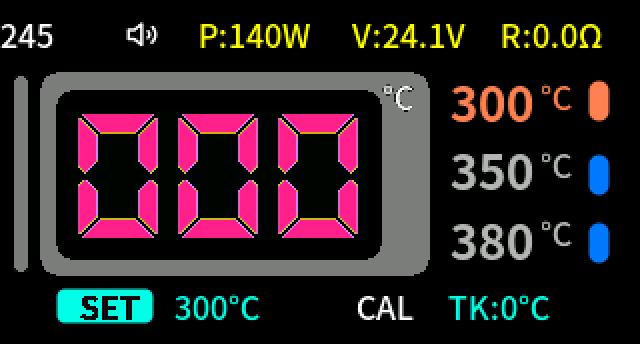
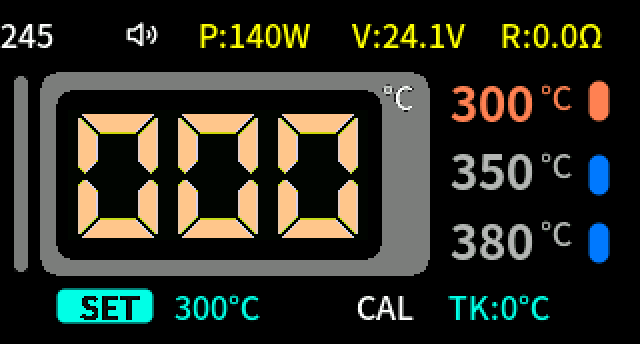
notify_boost: re-arm after heater off/on; boost colour orange
The hook runs at the PID call site, and the PID is not called while the
heater is off, so turning the heater off and on at the same set
temperature kept "reached" set and the cold tip triggered a boost (seen
on the device, up to about 320 deg). A gap of more than 1 s between hook
calls now re-arms, using the last 16 bytes of the free area. The test
scenario covers off/on at 300 deg and fails on the previous build.

BOOST_COLOR is now orange (0xFD20): the firmware draws the set value in
coral (0xFC0A) while it is being edited, which was easy to mistake for
the red boost colour. Screenshots regenerated.

Docs: device results (C245, 60W: 300 deg in about 11 s, peak about
306 deg with pid_fix) and the 60W simulation comparison.

diff --git a/patches/test_notify_boost.py b/patches/test_notify_boost.py
@@ -52,6 +52,10 @@ PLAN = [
     (2100, 4350, 1, 4500),
     (2300, 4500, 2, 4500),                  # sleep: no beep, no boost
     (2400, 4500, 1, 4500),                  # back to work: beep again
+    (2500, 3000, 1, 3000),                  # set 300 and reach it: beep
+    (2600, 1500, 3, 3000),                  # heater off (PID not called), tip cools
+    (2700, 1500, 1, 3000),                  # heater on, same set temp, cold tip: no boost
+    (2800, 3000, 1, 3000),                  # reached again: beep
 ]
 
 
@@ -102,7 +106,7 @@ class Scenario(Emu):
 def main(argv):
     image = argv[1] if len(argv) > 1 else os.path.join(
         ROOT, 'TS1M_Master_APP_V202_EN_notify_boost.bin')
-    s = Scenario(image).run(count=80_000_000)
+    s = Scenario(image).run(count=100_000_000)
     assert s.err is None and not s.halted, (s.err, s.halted)
 
     beeps = [p for p, pat in s.beeps if pat == HOOK_PATTERN]
@@ -120,8 +124,8 @@ def main(argv):
         return [r for r in boosted if a <= r[0] < b]
 
     checks = {
-        'one beep per reached target (heat-up, 440, 450, after sleep)':
-            len(beeps) == 4 and beeps[0] < 300,
+        'one beep per reached target (heat-up, 440, 450, after sleep, after off)':
+            len(beeps) == 6 and beeps[0] < 300 and 2700 <= beeps[5] < 2800,
         'no beep while sleeping': not [p for p in beeps if 2100 <= p < 2300],
         'target restored to the set value after every PID call':
             all(r[3] == r[5] for r in s.rows if r[0] > 1),
@@ -135,6 +139,7 @@ def main(argv):
         'boost capped at 450.0': all(r[2] == 4500 for r in in_(1800, 1900)) and in_(1800, 1900),
         'set 450: target untouched': not in_(1900, 2100),
         'no boost while sleeping': not in_(2100, 2300),
+        'no boost after heater off/on': not in_(2600, 2800),
         'display flag set exactly when the target was raised':
             all(r[6] == (1 if r[2] != r[3] else 0) for r in s.rows if r[0] > 1 and len(r) > 6),
     }

diff --git a/ANALYSIS.md b/ANALYSIS.md
@@ -384,7 +384,7 @@ The earlier modification that hooked it did not work not because of the hook tar
 12. Details of each inspection item and pins used (current/relay sense etc.) in the factory inspection mode (checkMode) (ch. 6)
 13. The entire frame of the USART2 link during normal operation of the tip (H100) (the motion-detection byte[8], type byte[2], etc. are known, ch. 5)
 14. When and what the write to the IDChip (bootloader mode 7 / `IDChip Save Err`) writes to the 1-Wire EEPROM (ch. 14-15)
-15. Temperature overshoot (about 315℃ with a 300℃ setting, C245): the mechanism is reproduced by simulation (ch. 10), but the PID call period, heater power and thermal time constants are not measured, and the fix is not verified on the device
+15. Temperature overshoot (C245, 300℃ setting): with `pid_fix` the device peaks at about 306℃ (300℃ in about 11 s, 60W). The first observation of about 315℃ may have been the `notify_boost` off/on bug. An A/B test with and without `pid_fix` on the device is still needed (ch. 10)
 
 ### Resolved (record)
 
@@ -526,6 +526,14 @@ The recommended fix for 245 is two instructions, built as `python3 patches/build
 | `0x0801559A` | `4ff0000a` (`mov.w sl, #0`) | `aff30080` (`nop.w`) | Keep D active while approaching |
 | `0x080155B4` | `01d9` (`bls`) | `00bf` (`nop`) | No P dead band |
 
+**Device test (2026-10-02, C245, POW shown as 60W, from 36℃, `notify_boost,pid_fix,no_snap`):**
+
+- Heater off then on again: the digits turned red (boost) and the reading rose to about 320℃. This was a `notify_boost` bug (ch. 11), not the PID
+- Without that: 300℃ in about 11 s, peak about 306℃
+
+With 60W, the plants that reproduce "11 s / 306℃" under `pid_fix` (`P60`, lag 0.5–2.0 s) give about 305–306℃ for the original PID too; there `pid_fix` mainly removes the ripple after settling (original 0.1–3.2℃, `pid_fix` about 0.2℃) rather than lowering the peak.
+The about 315℃ first observed was with `notify_boost` installed, so it may have been the same boost bug. An A/B test on the device (`notify_boost,no_snap` with and without `pid_fix`, cold start, no off/on) is still needed.
+
 ### Why the PID looks like this (speculation)
 
 Nothing in the code states the design intent; this is read from its structure. It looks less like an analytically designed PID
@@ -608,9 +616,11 @@ python3 patches/screenshot.py         # draw the heating screen to the virtual p
 | Boost cap | 450.0℃. If the setting is 450.0℃ or more, do nothing (never lowers the target) |
 | Boost end | When it recovers to the set temperature. If it continues for 20 seconds, abort, and do not restart until it recovers |
 | Disabled | Outside working mode (sleep etc.), calibration mode (CAL), target 0 |
-| Boost display | While the target is actually raised, make the large current-temperature digits on the heating screen red (`0xF800`) from white |
+| Boost display | While the target is actually raised, make the large current-temperature digits on the heating screen orange (`0xFD20`) from white. Red (`0xF800`) until 2026-10-02, changed because the firmware draws the set value in `0xFC0A` (coral, RGB 255/130/82) while it is being edited, which was hard to tell from red |
 
 Parameters can be changed via the `.equ` at the top of `patches/notify_boost.S` (display color is `BOOST_COLOR`, RGB565).
+
+**Bug fixed (2026-10-02): boost after heater off/on.** The hook runs at the PID call site, and the PID is not called while the heater is off (MODE 0/3), so "off" never reached the idle path that re-arms. Turning the heater back on at the same set temperature kept "reached" set, the cold tip counted as a droop, and the boost started after 300 ms (seen on the device: red digits, reading up to about 320℃). The hook now treats a gap of more than `GAP_MS` (1000 ms) between calls as "heater was off" and re-arms. This uses the last 16 bytes of the free area (348 / 348 bytes).
 
 ### Boost display
 
@@ -619,15 +629,15 @@ The heating screen (UI page 1) draws the current temperature with `drawString(st
 
 | Replacement site | Original instruction | Display style | After replacement |
 | --- | --- | --- | --- |
-| `0x0801FA28` | `movw r1, #0xFFFF` (r1 → fg) | Normal (with graph) | `bl temp_color_a` (r1 = white / red) |
-| `0x0801B21A` | `str.w r9, [sp]` (r9 = `0xFFFF`) | 7-seg style (`[0x20000455] != 0`) | `bl temp_color_b` ([sp] = white / red) |
+| `0x0801FA28` | `movw r1, #0xFFFF` (r1 → fg) | Normal (with graph) | `bl temp_color_a` (r1 = white / orange) |
+| `0x0801B21A` | `str.w r9, [sp]` (r9 = `0xFFFF`) | 7-seg style (`[0x20000455] != 0`) | `bl temp_color_b` ([sp] = white / orange) |
 
 Both just look at the "target raised in this pass" flag (state +14) that the hook writes on each PID call.
-It does not touch the branch (`0x0801F990`) that temporarily displays the setting value in orange (`0xFC0A`) right after a temperature change.
+It does not touch the branch (`0x0801F990`) that temporarily displays the setting value in coral (`0xFC0A`) right after a temperature change.
 
 Results confirmed on the virtual panel (EMULATION.md):
-- Normal style: the digits are red only during boost, otherwise stay white
-- 7-seg style: the digits blend with the gray background, so they look pinkish rather than red. Normally stays white
+- Normal style: the digits are coloured only during boost, otherwise stay white
+- 7-seg style: the digits blend with the gray background, so the colour looks lighter (red looked pinkish). Normally stays white
 - The setting that selects the 7-seg style was not `user_UI` (it stays normal style even with `user_UI=1`).
   We set `0x20000455` directly to draw it. Which menu item switches this is not verified
 
@@ -642,6 +652,7 @@ Scenarios of `patches/test_notify_boost.py` (move the tip ADC as scripted, and r
 - A drop of less than 300ms: no boost
 - Setting 440℃: boost caps at 450.0℃. Setting 450℃: the target does not change
 - During sleep: neither notification nor boost. On returning to work, notifies again
+- Heater off (PID not called), then on at the same set temperature with a cold tip: no boost, and notifies again on reaching it (fails on the version before the fix)
 
 Running the same test on the original firmware fails the notification/boost items (confirmation that the test is effective).
 

diff --git a/README.md b/README.md
@@ -53,9 +53,9 @@ python3 patches/screenshot.py         # render the heat screen on the virtual pa
 
 | Feature | Behavior |
 | --- | --- |
-| Target-reached beep | Beeps twice the first time the temperature enters ±3.0 °C of the set point. Re-armed on a setting change or wake from sleep. |
+| Target-reached beep | Beeps twice the first time the temperature enters ±3.0 °C of the set point. Re-armed on a setting change, wake from sleep, or turning the heater off and on. |
 | Auto boost | After the target has been reached once, if it stays 10.0 °C or more below for 300 ms, raise the target by +20.0 °C (capped at 450 °C). Ends on recovery, gives up after 20 s. |
-| Boost indicator | While boosting, the current-temperature digits on the heat screen turn from white to red (pinkish in the 7-segment style). |
+| Boost indicator | While boosting, the current-temperature digits on the heat screen turn from white to orange (blended with the gray background in the 7-segment style). The firmware itself draws the set value in coral (`0xFC0A`) while it is being edited. |
 
 ### Screen (boost indicator)
 

diff --git a/README.ja.md b/README.ja.md
@@ -57,9 +57,9 @@ python3 patches/screenshot.py         # 加熱画面を仮想パネルに描画 
 
 | 機能 | 動作 |
 | --- | --- |
-| 目標温度到達通知 | 設定温度の ±3.0℃ に初めて入ったら 2回ビープ。設定変更・スリープ復帰で再び有効 |
+| 目標温度到達通知 | 設定温度の ±3.0℃ に初めて入ったら 2回ビープ。設定変更・スリープ復帰・ヒーターの OFF→ON で再び有効 |
 | 自動ブースト | 一度到達した後、10.0℃ 以上低い状態が 300ms 続いたら目標を +20.0℃ (上限 450℃)。回復で終了、20秒で打ち切り |
-| ブースト表示 | ブースト中は加熱画面の現在温度の数字が白から赤になる (7セグ風表示ではピンク寄り) |
+| ブースト表示 | ブースト中は加熱画面の現在温度の数字が白からオレンジになる (7セグ風表示では灰色の背景と混ざる)。設定値の変更中にコーラル (`0xFC0A`) になるのは元のファームの表示 |
 
 ### 画面 (ブースト表示)
 
